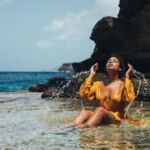
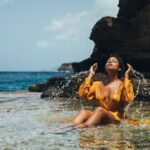
update

diff --git a/wp-content/themes/NatashaBlackburn/front-page.php b/wp-content/themes/NatashaBlackburn/front-page.php
@@ -38,9 +38,10 @@ while($showPost->have_posts()){
 				$count = 0;
 				while($showPost->have_posts()){
 					$showPost->the_post(); ?>
-						<div class="carousel-item <?php if($count <= 0){ echo 'active';} ?>" style="background:url(<?php the_post_thumbnail_url('home')?>);height:100vh;width:100vw;background-size:cover;background-repeat:no-repeat;background-position:center center">
+						<div class="carousel-item <?php if($count <= 0){ echo 'active';} ?>" style="background:url(<?php the_post_thumbnail_url('iphone')?>);height:100vh;width:100vw;background-size:cover;background-repeat:no-repeat;background-position:center center">
 			<!-- <img src=""  class="d-block w-100 img-fluid" alt="..."> -->
 		</div>
+		<?php $count++;?>
 				<?php } ?>
 			</div>
 		</div>
@@ -59,7 +60,7 @@ while($showPost->have_posts()){
 						<div class="carousel-item <?php if($count <= 0){ echo 'active';} ?>" style="background:url(<?php the_post_thumbnail_url('home')?>);height:100vh;width:100vw;background-size:cover;background-repeat:no-repeat;background-position:center center">
 			<!-- <img src=""  class="d-block w-100 img-fluid" alt="..."> -->
 		</div>
-				<?php } ?>
+				<?php $count++; } ?>
 			</div>
 		</div>
 

diff --git a/wp-content/themes/NatashaBlackburn/functions.php b/wp-content/themes/NatashaBlackburn/functions.php
@@ -49,6 +49,7 @@ add_action('wp_enqueue_scripts', 'nblackburn_files');
 function blackburn_features(){
   add_image_size('pagethumbnails', 300, 200, true);
   add_image_size('singlePortrait', 500, 650, true);
+  add_image_size('iphone', 828, 1792, true);
   add_image_size('home', 1500, 1200, true);
   add_theme_support('title-tag');
   add_theme_support('post-thumbnails');
